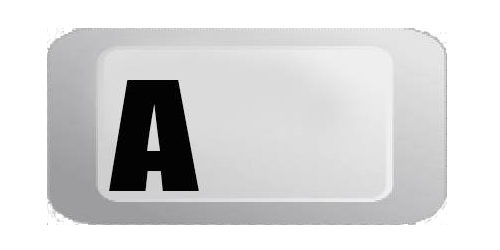
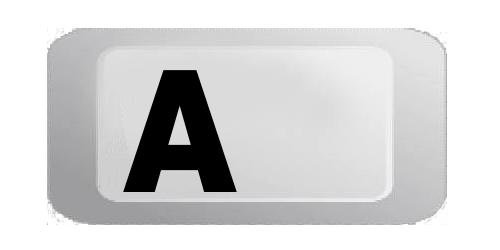
no message

Changed region(s): [[0.21, 0.28, 0.48, 0.784]]

diff --git a/src/ConfigPanel.java b/src/ConfigPanel.java
@@ -236,14 +236,16 @@ public class ConfigPanel extends JFrame {
 				this.label = label;
 				this.listening = false;
 				this.hasSpecChar = false;
+				this.code = -1;
 								
 				addFocusListener(this);
 				addKeyListener(new KeyAdapter() {
 					@Override
 					public void keyPressed(KeyEvent e) {
 						if (listening) {
-							code = e.getKeyCode();							
-							setText(Character.toString((char)code));
+							setText("");
+							code = e.getKeyCode();
+							repaint();
 						}
 					}
 				});
@@ -257,8 +259,7 @@ public class ConfigPanel extends JFrame {
 
 			@Override
 			public void focusLost(FocusEvent e) {
-				this.setBorder(BorderFactory.createLineBorder(Color.GRAY, 1));
-				System.out.println("lost");
+				this.setBorder(BorderFactory.createLineBorder(Color.GRAY, 1));				
 				listening = false;
 			}
 
@@ -270,6 +271,10 @@ public class ConfigPanel extends JFrame {
 			public void paintComponent(Graphics g) {
 				super.paintComponent(g);
 				BufferedImage img = null;
+				if (code == -1) {					
+					return;
+				}
+					
 				try {
 					String name = "images\\key_notfound.png";
 					if (code >= (int)'A' && code <= (int)'Z') {
@@ -298,13 +303,11 @@ public class ConfigPanel extends JFrame {
 							
 							default: name = "images\\key_notfound.png"; break;
 						}
-					}
-					
+					}					
 					System.out.println(name);
 					img = ImageIO.read(new File(name));
-					
+					g.drawImage(img, 0, 0, 50, 25,  null);					
 				} catch (IOException ex) {}
-				g.drawImage(img, 0, 0, 50, 25,  null);			
 
 			}
 		}

diff --git a/src/GameController.java b/src/GameController.java
@@ -14,7 +14,7 @@ public class GameController {
 	public static final int FRAME_SIZE_Y = Main.screenSize.height;
 	public static final int DEFAULT_THICK = 4;
 	public static final Color DEFAULT_COLOR = Color.BLUE;
-	public static final double DEFAULT_CURVE_SPEED = 0.8;
+	public static final double DEFAULT_CURVE_SPEED = 1.5;
 	public static final double DEFAULT_CURVE_ANGLE = 1.5;
 	public static final Color PLAYGROUND_BACKGROUND = new Color(30, 30, 30);
 	public static final int PLAYGROUND_BORDER_WIDTH = 8;
